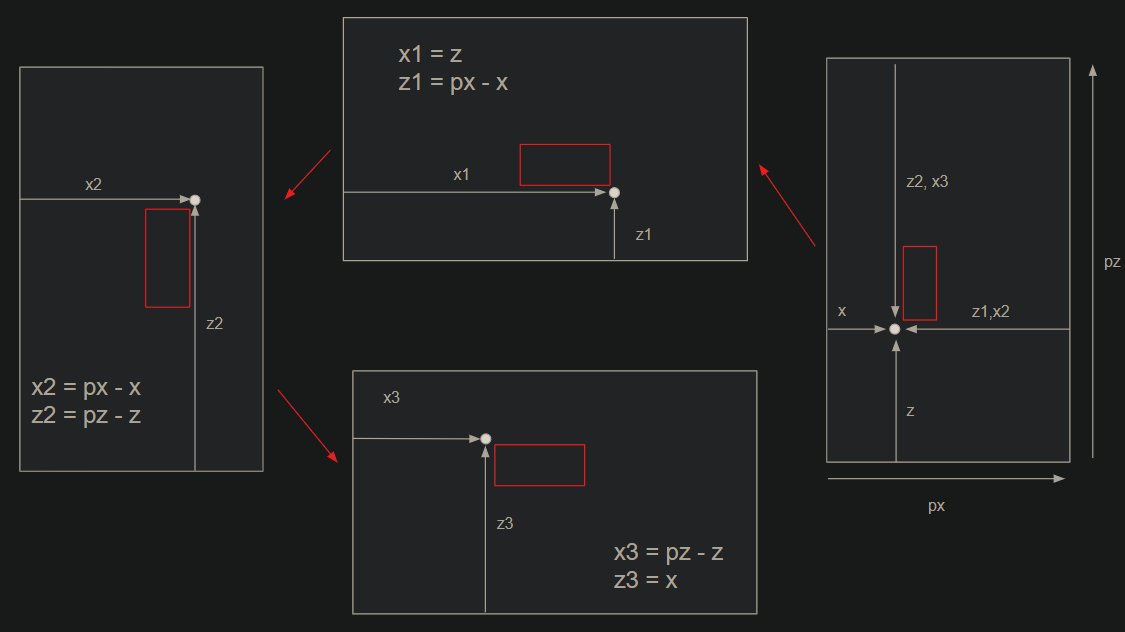
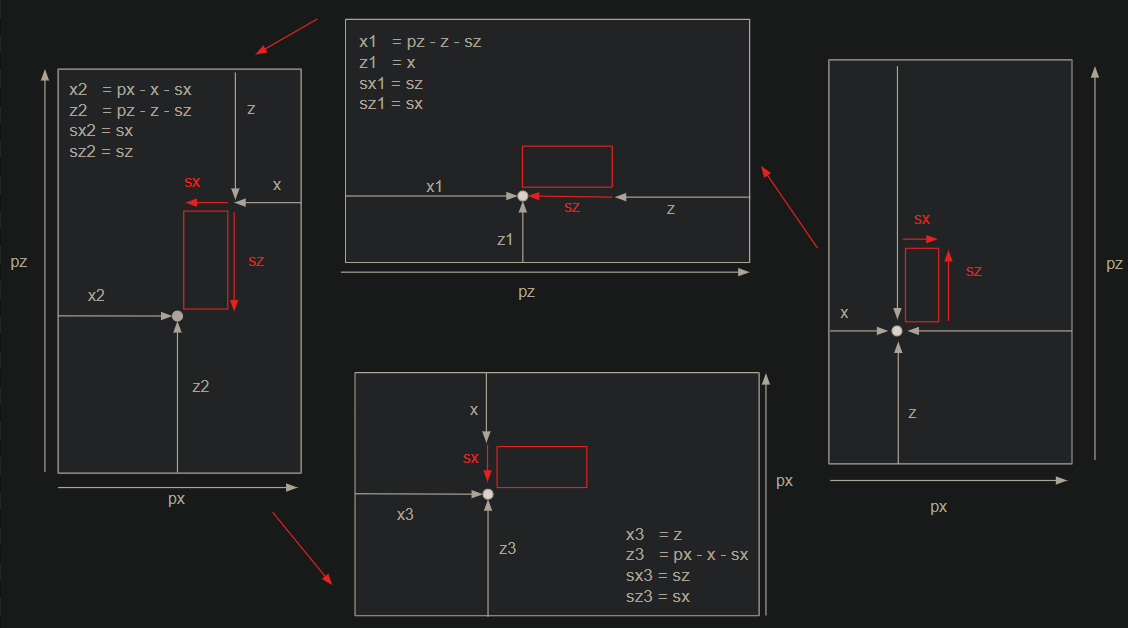
implement prefab clusters for all non-cave prefabs

diff --git a/Scripts/CaveGeneration/CavePrefabManager.cs b/Scripts/CaveGeneration/CavePrefabManager.cs
@@ -84,6 +84,11 @@ public class CavePrefabManager
 
         Log.Out($"[Cave] AddPrefab '{prefab.PrefabName}' at {prefab.position - CaveUtils.HalfWorldSize(worldSize)}, overlappingChunks: {overlapingChunks.Count()}");
 
+        if (overlapingChunks.Count == 0)
+        {
+            Log.Warning("No overlapping chunk");
+        }
+
         var neighbor = new Vector2s(0, 0);
 
         foreach (var chunkPos in overlapingChunks)
@@ -546,48 +551,35 @@ public class CavePrefabManager
             if (pdi.prefab.Tags.Test_AnySet(CaveConfig.tagCave))
             {
                 AddPrefab(new CavePrefab(pdi.id, pdi, halfWorldSize));
-                Log.Out($"[Cave] used cave prefab: {pdi.prefab.Name} at [{pdi.boundingBoxPosition}]");
             }
         }
     }
 
     public void AddSurfacePrefabs()
     {
-        var rwgTileClusters = new Dictionary<string, List<BoundingBox>>();
-        var halfWorldSize = new Vector3i(
-            worldBuilder.WorldSize >> 1,
-            0,
-            worldBuilder.WorldSize >> 1
-        );
+        var prefabClusters = new Dictionary<string, List<BoundingBox>>();
+        var halfWorldSize = CaveUtils.HalfWorldSize(worldSize);
 
         foreach (var pdi in PrefabManager.UsedPrefabsWorld)
         {
-            bool isRwgTile = pdi.prefab.Tags.Test_AnySet(CaveConfig.tagRwgStreetTile);
-            bool isUndergound = pdi.prefab.Tags.Test_AnySet(CaveConfig.tagCaveUnderground);
-            bool isCaveEntrance = pdi.prefab.Tags.Test_AnySet(CaveConfig.tagCaveEntrance);
+            if (pdi.prefab.Tags.Test_AnySet(CaveConfig.tagCave))
+                continue;
 
-            if (isRwgTile)
+            if (!prefabClusters.TryGetValue(pdi.prefab.Name, out var clusters))
             {
-                if (!rwgTileClusters.TryGetValue(pdi.prefab.Name, out var clusters))
-                {
-                    clusters = BlockClusterizer.Clusterize(pdi);
-                    rwgTileClusters[pdi.prefab.Name] = clusters;
-                }
-
-                foreach (var cluster in clusters)
-                {
-                    var position = pdi.boundingBoxPosition + halfWorldSize;
-                    var rectangle = cluster.Transform(position, pdi.rotation, pdi.prefab.size);
-                    var cavePrefab = new CavePrefab(rectangle);
-                    AddPrefab(cavePrefab);
-                }
+                clusters = BlockClusterizer.Clusterize(pdi);
+                prefabClusters[pdi.prefab.Name] = clusters;
             }
-            else if (!isUndergound && !isCaveEntrance)
+
+            foreach (var cluster in clusters)
             {
-                AddPrefab(new CavePrefab(Count, pdi, halfWorldSize));
+                var position = pdi.boundingBoxPosition + halfWorldSize;
+                var rectangle = cluster.Transform(position, pdi.rotation, pdi.prefab.size);
+                var cavePrefab = new CavePrefab(rectangle) { isCluster = true };
+                AddPrefab(cavePrefab);
+
+                Log.Out($"[Cave] add cluster ({pdi.prefab.Name}), position: {rectangle.start}, rotation: {pdi.rotation}, size: {rectangle.size}");
             }
         }
     }
-
-
 }

diff --git a/Scripts/CaveGeneration/CavePrefab.cs b/Scripts/CaveGeneration/CavePrefab.cs
@@ -42,28 +42,29 @@ public class CavePrefab
 
     public bool isRoom = false;
 
+    public bool isCluster = false;
+
     public bool isBoundaryPrefab = false;
 
-    public List<GraphNode> nodes;
+    public List<GraphNode> nodes = new List<GraphNode>();
 
-    public List<Prefab.Marker> caveMarkers;
+    public List<Prefab.Marker> caveMarkers = new List<Prefab.Marker>();
 
     public CavePrefab() { }
 
     public CavePrefab(int index)
     {
         id = index;
-        nodes = new List<GraphNode>();
     }
 
     public CavePrefab(BoundingBox rectangle)
     {
         position = rectangle.start;
         Size = rectangle.size;
-        caveMarkers = new List<Prefab.Marker>();
     }
 
     public CavePrefab(int index, PrefabDataInstance pdi, Vector3i offset)
+
     {
         id = index;
         rotation = pdi.rotation;
@@ -77,10 +78,7 @@ public class CavePrefab
     public CavePrefab(int index, Vector3i position, Random rand, int markerCount)
     {
         this.position = position;
-
         id = index;
-        nodes = new List<GraphNode>();
-
         int minPrefabSize = 8;
         int maxPrefabSize = 100;
 
@@ -389,7 +387,7 @@ public class CavePrefab
     {
         if (nodes == null)
         {
-            Log.Warning($"[Cave] null cavePrefab nodes, isroom: {isRoom}, isBoundaryPrefab: {isBoundaryPrefab}, null pdi: {prefabDataInstance is null}, prefab name: {PrefabName}");
+            Log.Warning($"[Cave] null cavePrefab nodes, isCluster: {isCluster}, isroom: {isRoom}, isBoundaryPrefab: {isBoundaryPrefab}, null pdi: {prefabDataInstance is null}, prefab name: {PrefabName}");
             yield break;
         }
 

diff --git a/Scripts/Models/BoundingBox.cs b/Scripts/Models/BoundingBox.cs
@@ -161,26 +161,24 @@ public class BoundingBox
                 break;
 
             case 1:
-                pz = parentSize.x;
-                bb.start.x = pz - z;
-                bb.start.z = x;
-                bb.size.x = -sz;
-                bb.size.z = sx;
+                bb.start.x = pz - z - sz;   // x1
+                bb.start.z = x;             // z1
+                bb.size.x = sz;             // sx1
+                bb.size.z = sx;             // sz1
                 break;
 
             case 2:
-                bb.start.x = px - x;
-                bb.start.z = pz - z;
-                bb.size.x = -sx;
-                bb.size.z = -sz;
+                bb.start.x = px - x - sx;   // x2
+                bb.start.z = pz - z - sz;   // z2
+                bb.size.x = sx;             // sx2
+                bb.size.z = sz;             // sz2
                 break;
 
             case 3:
-                px = parentSize.z;
-                bb.start.x = z;
-                bb.start.z = px - x;
-                bb.size.x = sz;
-                bb.size.z = -sx;
+                bb.start.x = z;             // x3
+                bb.start.z = px - x - sx;   // z3
+                bb.size.x = sz;             // sx3
+                bb.size.z = sx;             // sz3
                 break;
 
             default:
